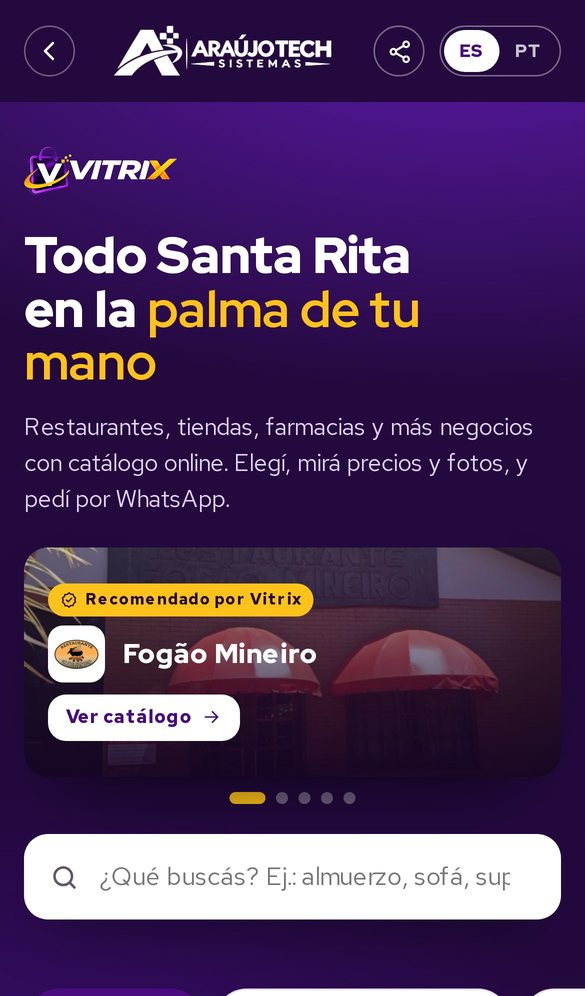
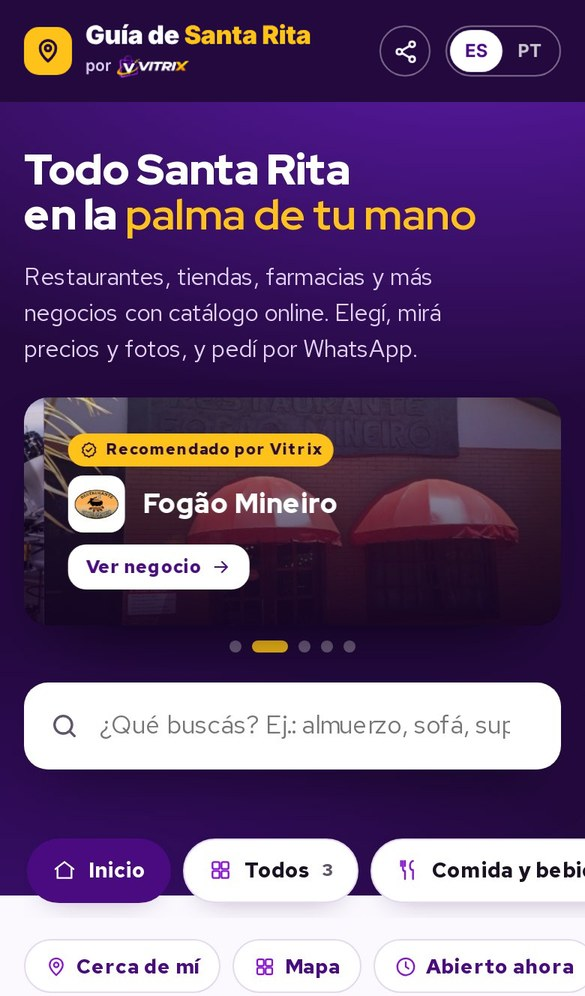
Site Araújo Tech: seção da Guía como Guía de Santa Rita (com a tecnologia do Vitrix, o que cada plano ganha, foto nova do celular); pronto para entrar com o domínio
Claude-Session: https://claude.ai/code/session_019EnWZ2w3FzxJZ5bukhMXBN

diff --git a/araujo-tech-site/index.html b/araujo-tech-site/index.html
@@ -311,7 +311,7 @@ html.anim .rv.in{opacity:1;transform:none}
 .gv-k{display:inline-block;font-size:13px;font-weight:700;letter-spacing:.1em;text-transform:uppercase;color:#FFC21A;border:1px solid rgba(255,194,26,.5);border-radius:999px;padding:6px 12px}
 .gv h2{font-family:var(--display);font-weight:900;font-size:clamp(30px,4vw,46px);line-height:1.08;margin:16px 0 12px}.gv-tx>p{color:#E3D3FA;font-size:17px;line-height:1.55;max-width:560px;margin:0}
 .gv-l{list-style:none;padding:0;margin:22px 0 0;display:grid;gap:12px}.gv-l li{display:flex;gap:12px;align-items:center;font-size:16px}.gv-l svg{width:36px;height:36px;padding:8px;box-sizing:border-box;border-radius:10px;background:rgba(255,194,26,.14);color:#FFC21A;flex:none}
-.gv-b{display:flex;gap:14px;flex-wrap:wrap;align-items:center;margin-top:28px}.gv-b1{background:#FFC21A!important;color:#24093F!important}.gv-b2{color:#fff;font-weight:700;text-decoration:none;border-bottom:1px solid rgba(255,255,255,.4);padding-bottom:2px}.gv-b2:hover{border-color:#fff}
+.gv-b{display:flex;gap:14px;flex-wrap:wrap;align-items:center;margin-top:28px}.gv-pl{margin-top:20px;font-size:15px;line-height:1.5;padding:12px 14px;border-radius:14px;background:rgba(255,255,255,.08);border:1px solid rgba(255,255,255,.16)}.gv-b1{background:#FFC21A!important;color:#24093F!important}.gv-b2{color:#fff;font-weight:700;text-decoration:none;border-bottom:1px solid rgba(255,255,255,.4);padding-bottom:2px}.gv-b2:hover{border-color:#fff}
 .gv-ph{flex:none;width:300px;border-radius:44px;background:#0C0216;padding:10px;box-shadow:0 30px 60px -20px rgba(0,0,0,.7),0 0 0 2px rgba(255,255,255,.1);transform:rotate(3deg);transition:transform .2s}.gv-ph:hover{transform:rotate(0)}.gv-ph img{display:block;width:100%;height:auto;border-radius:34px}
 @media (max-width:820px){.gv-in{flex-direction:column;align-items:stretch;gap:36px}.gv-ph{width:240px;margin:0 auto}}
 .cl-h{text-align:center;font-size:13px;font-weight:700;letter-spacing:.08em;text-transform:uppercase;color:var(--muted);margin:0 0 18px}.cl-g{text-align:center;margin:18px 0 0;font-weight:700;color:var(--purple,#7b2ff2)}.cl-g a{color:inherit;text-decoration:none}.cl-g a:hover{text-decoration:underline}
@@ -347,7 +347,7 @@ a.cl:hover{transform:translateY(-2px);box-shadow:0 10px 24px rgba(76,29,149,.12)
     </a>
     <nav class="menu" id="menu">
       <a href="#sistemas" data-t="n1">Sistemas</a>
-      <a href="guia/" data-t="n_g">Guía Vitrix</a>
+      <a href="guia/" data-t="n_g">Guía de Santa Rita</a>
       <a href="#quienes" data-t="n2">Quiénes somos</a>
       <a href="#como" data-t="n3">Cómo trabajamos</a>
       <a href="#preguntas" data-t="n4">Preguntas</a>
@@ -397,25 +397,26 @@ a.cl:hover{transform:translateY(-2px);box-shadow:0 10px 24px rgba(76,29,149,.12)
   <div class="wrap">
     <p class="cl-h" data-t="cl_h">Negocios que ya usan nuestros sistemas</p>
     <div class="cl-row"></div>
-    <p class="cl-g"><a href="guia/" data-t="cl_g">Ver todos en la Guía Vitrix</a> →</p>
+    <p class="cl-g"><a href="guia/" data-t="cl_g">Ver todos en la Guía de Santa Rita</a> →</p>
   </div>
 </section>
 
 <section class="gv" id="guia" aria-labelledby="gv-h">
   <div class="wrap gv-in">
     <div class="gv-tx">
-      <span class="gv-k" data-t="gv_k">Nuevo · Guía Vitrix</span>
+      <span class="gv-k" data-t="gv_k">Nuevo · Guía de Santa Rita</span>
       <h2 id="gv-h" data-t="gv_h">Todo Santa Rita en la palma de tu mano</h2>
-      <p data-t="gv_p">La guía de la ciudad hecha por Araújo Tech y Tu Delivery: los negocios con catálogo Vitrix y todo lo útil de Santa Rita, en un solo lugar.</p>
+      <p data-t="gv_p">La guía de la ciudad, con la tecnología de Vitrix: negocios con catálogo y pedidos por WhatsApp, qué comer ahora, quién está abierto y todo lo útil de Santa Rita, en un solo lugar.</p>
       <ul class="gv-l">
         <li><svg viewBox="0 0 24 24" fill="none" stroke="currentColor" stroke-width="2" stroke-linecap="round" stroke-linejoin="round" aria-hidden="true"><path d="M6 7h12l-1 13H7z"/><path d="M9 7a3 3 0 0 1 6 0"/></svg><span data-t="gv_1">Negocios con catálogo y pedidos por WhatsApp</span></li>
-        <li><svg viewBox="0 0 24 24" fill="none" stroke="currentColor" stroke-width="2" stroke-linecap="round" stroke-linejoin="round" aria-hidden="true"><path d="M3 12V4h8l10 10-8 8z"/><circle cx="7.5" cy="8.5" r="1.5"/></svg><span data-t="gv_2">Ofertas de hoy de los negocios</span></li>
-        <li><svg viewBox="0 0 24 24" fill="none" stroke="currentColor" stroke-width="2" stroke-linecap="round" stroke-linejoin="round" aria-hidden="true"><circle cx="12" cy="12" r="9"/><path d="M12 8v8M8 12h8"/></svg><span data-t="gv_3">Farmacia de turno y números de emergencia</span></li>
-        <li><svg viewBox="0 0 24 24" fill="none" stroke="currentColor" stroke-width="2" stroke-linecap="round" stroke-linejoin="round" aria-hidden="true"><rect x="4" y="4" width="16" height="13" rx="2"/><path d="M4 11h16M7 20v-3M17 20v-3"/></svg><span data-t="gv_4">Horarios de ómnibus, profesionales y agenda</span></li>
+        <li><svg viewBox="0 0 24 24" fill="none" stroke="currentColor" stroke-width="2" stroke-linecap="round" stroke-linejoin="round" aria-hidden="true"><path d="M3 12V4h8l10 10-8 8z"/><circle cx="7.5" cy="8.5" r="1.5"/></svg><span data-t="gv_2">Qué comer ahora y quién está abierto</span></li>
+        <li><svg viewBox="0 0 24 24" fill="none" stroke="currentColor" stroke-width="2" stroke-linecap="round" stroke-linejoin="round" aria-hidden="true"><circle cx="12" cy="12" r="9"/><path d="M12 8v8M8 12h8"/></svg><span data-t="gv_3">Farmacia de turno, ómnibus y números útiles</span></li>
+        <li><svg viewBox="0 0 24 24" fill="none" stroke="currentColor" stroke-width="2" stroke-linecap="round" stroke-linejoin="round" aria-hidden="true"><rect x="4" y="4" width="16" height="13" rx="2"/><path d="M4 11h16M7 20v-3M17 20v-3"/></svg><span data-t="gv_4">Clima, cambio y la guía para quien recién llega</span></li>
       </ul>
+      <p class="gv-pl" data-t="gv_pl">Con Vitrix tu negocio entra en la Guía con página propia. Premium suma el sello Recomendado y VIP, además, el anuncio en la portada.</p>
       <div class="gv-b"><a class="btn gv-b1" href="guia/" data-t="gv_b1">Abrir la Guía</a><a class="gv-b2" href="guia/negocios/" data-t="gv_b2">Quiero mi negocio en la Guía</a></div>
     </div>
-    <a class="gv-ph" href="guia/" aria-label="Abrir la Guía Vitrix"><img src="img/guia/guia-cel.jpg" alt="La Guía Vitrix en el celular" width="585" height="996" loading="lazy"></a>
+    <a class="gv-ph" href="guia/" aria-label="Abrir la Guía de Santa Rita"><img src="img/guia/guia-cel.jpg" alt="La Guía de Santa Rita en el celular" width="585" height="996" loading="lazy"></a>
   </div>
 </section>
 
@@ -599,7 +600,7 @@ const TESTIMONIOS = [
 const T = {
 es:{
  title:"Araújo Tech Sistemas — Sistemas a medida en Santa Rita, Paraguay",
- n_g:"Guía Vitrix",cl_g:"Ver todos en la Guía Vitrix",gv_k:"Nuevo · Guía Vitrix",gv_h:"Todo Santa Rita en la palma de tu mano",gv_p:"La guía de la ciudad hecha por Araújo Tech y Tu Delivery: los negocios con catálogo Vitrix y todo lo útil de Santa Rita, en un solo lugar.",gv_1:"Negocios con catálogo y pedidos por WhatsApp",gv_2:"Ofertas de hoy de los negocios",gv_3:"Farmacia de turno y números de emergencia",gv_4:"Horarios de ómnibus, profesionales y agenda",gv_b1:"Abrir la Guía",gv_b2:"Quiero mi negocio en la Guía",n1:"Sistemas",n2:"Quiénes somos",n3:"Cómo trabajamos",n4:"Preguntas",n5:"Pedir presupuesto",
+ n_g:"Guía de Santa Rita",cl_g:"Ver todos en la Guía de Santa Rita",gv_k:"Nuevo · Guía de Santa Rita",gv_h:"Todo Santa Rita en la palma de tu mano",gv_p:"La guía de la ciudad, con la tecnología de Vitrix: negocios con catálogo y pedidos por WhatsApp, qué comer ahora, quién está abierto y todo lo útil de Santa Rita, en un solo lugar.",gv_1:"Negocios con catálogo y pedidos por WhatsApp",gv_2:"Qué comer ahora y quién está abierto",gv_3:"Farmacia de turno, ómnibus y números útiles",gv_4:"Clima, cambio y la guía para quien recién llega",gv_b1:"Abrir la Guía",gv_b2:"Quiero mi negocio en la Guía",gv_pl:"Con Vitrix tu negocio entra en la Guía con página propia. Premium suma el sello Recomendado y VIP, además, el anuncio en la portada.",n1:"Sistemas",n2:"Quiénes somos",n3:"Cómo trabajamos",n4:"Preguntas",n5:"Pedir presupuesto",
  h1:"Sistemas a la medida de su negocio",
  h_p:"Hacemos aplicaciones y sistemas web para comercios, restaurantes, salones, empresas de delivery e iglesias. Funcionan en el celular y en la computadora, en español y en portugués.",
  h_b1:"Escribir por WhatsApp",h_b2:"Conocer Vitrix",rot_pre:"Para",sh_all:"Ver todos los sistemas",ft_job:"Trabajá con nosotros",lz_k:"Oferta exclusiva de lanzamiento",lz_h:"¡Pagá 10 meses. Disfrutá 12!",lz_p:"Los primeros 20 clientes que contraten un plan anual de Vitrix, con pago anticipado, reciben 2 meses gratis. Al completarse el cupo, la oferta finaliza.",lz_s:"La instalación se abona por separado, según el plan contratado.",lz_b:"¡Quiero mis 2 meses gratis!",lz_v:"Ver planes y precios",lz_wa:"la promoción de lanzamiento de Vitrix (pagá 10 meses, disfrutá 12).",lz_left:"Quedan {n} de {m} cupos",cl_h:"Negocios que ya usan nuestros sistemas",cl_1:"Vitrix · catálogo digital",cl_2:"Agenda de turnos",cl_3:"Caja de Entregas",wa_fab:"Escribinos",hf_tag:"Nuevo",hf_t:"Vitrix: catálogo digital con pedidos por WhatsApp",hf_p:"Para restaurantes, tiendas, farmacias y todo tipo de comercio · 33 ejemplos para probar",hf_tag:"Nuevo",hf_t:"Vitrix: catálogo digital con pedidos por WhatsApp",hf_p:"Para restaurantes, tiendas, farmacias y todo tipo de comercio · 33 ejemplos para probar",h_where:"Desde Santa Rita, Alto Paraná, para Paraguay y Brasil.",
@@ -634,7 +635,7 @@ es:{
 },
 pt:{
  title:"Araújo Tech Sistemas — Sistemas sob medida em Santa Rita, Paraguai",
- n_g:"Guia Vitrix",cl_g:"Ver todos no Guia Vitrix",gv_k:"Novo · Guia Vitrix",gv_h:"Toda Santa Rita na palma da sua mão",gv_p:"O guia da cidade feito pela Araújo Tech e pela Tu Delivery: os negócios com catálogo Vitrix e tudo o que é útil em Santa Rita, num só lugar.",gv_1:"Negócios com catálogo e pedidos pelo WhatsApp",gv_2:"Ofertas de hoje dos negócios",gv_3:"Farmácia de turno e números de emergência",gv_4:"Horários de ônibus, profissionais e agenda",gv_b1:"Abrir o Guia",gv_b2:"Quero meu negócio no Guia",n1:"Sistemas",n2:"Quem somos",n3:"Como trabalhamos",n4:"Perguntas",n5:"Pedir orçamento",
+ n_g:"Guia de Santa Rita",cl_g:"Ver todos no Guia de Santa Rita",gv_k:"Novo · Guia de Santa Rita",gv_h:"Toda Santa Rita na palma da sua mão",gv_p:"O guia da cidade, com a tecnologia do Vitrix: negócios com catálogo e pedidos pelo WhatsApp, o que comer agora, quem está aberto e tudo o que é útil em Santa Rita, num só lugar.",gv_1:"Negócios com catálogo e pedidos pelo WhatsApp",gv_2:"O que comer agora e quem está aberto",gv_3:"Farmácia de turno, ônibus e números úteis",gv_4:"Clima, câmbio e o guia para quem acabou de chegar",gv_b1:"Abrir o Guia",gv_b2:"Quero meu negócio no Guia",gv_pl:"Com o Vitrix o seu negócio entra na Guia com página própria. O Premium soma o selo Recomendado e o VIP, além disso, o anúncio na capa.",n1:"Sistemas",n2:"Quem somos",n3:"Como trabalhamos",n4:"Perguntas",n5:"Pedir orçamento",
  h1:"Sistemas sob medida para o seu negócio",
  h_p:"Fazemos aplicativos e sistemas web para comércios, restaurantes, salões, empresas de delivery e igrejas. Funcionam no celular e no computador, em português e em espanhol.",
  h_b1:"Falar no WhatsApp",h_b2:"Conhecer o Vitrix",rot_pre:"Para",sh_all:"Ver todos os sistemas",ft_job:"Trabalhe conosco",lz_k:"Oferta exclusiva de lançamento",lz_h:"Pague 10 meses. Aproveite 12!",lz_p:"Os primeiros 20 clientes que contratarem um plano anual do Vitrix, com pagamento adiantado, ganham 2 meses grátis. Quando as vagas acabarem, a oferta termina.",lz_s:"A instalação é paga à parte, conforme o plano contratado.",lz_b:"Quero meus 2 meses grátis!",lz_v:"Ver planos e preços",lz_wa:"a promoção de lançamento do Vitrix (pague 10 meses, aproveite 12).",lz_left:"Restam {n} de {m} vagas",cl_h:"Negócios que já usam nossos sistemas",cl_1:"Vitrix · catálogo digital",cl_2:"Agenda de horários",cl_3:"Caixa de Entregas",wa_fab:"Fale conosco",hf_tag:"Novo",hf_t:"Vitrix: catálogo digital com pedidos pelo WhatsApp",hf_p:"Para restaurantes, lojas, farmácias e todo tipo de comércio · 33 exemplos para testar",h_where:"De Santa Rita, Alto Paraná, para o Paraguai e o Brasil.",

diff --git a/araujo-tech-site/vitrix/index.html b/araujo-tech-site/vitrix/index.html
@@ -329,7 +329,7 @@ function calcBind(){document.querySelectorAll('[data-cm]').forEach(b=>b.addEvent
 /* botão fixo de WhatsApp: aparece depois do topo e some no final da página */
 function fabUpd(){const f=document.getElementById('fab');if(!f)return;const fin=document.querySelector('section.final');const nearEnd=fin&&fin.getBoundingClientRect().top<innerHeight;const inSec=id=>{const e=document.getElementById(id),r=e&&e.getBoundingClientRect();return !!r&&r.top<innerHeight*0.6&&r.bottom>innerHeight*0.4},inCalc=inSec('calculadora')||inSec('probar');f.classList.toggle('show',scrollY>500&&!nearEnd&&!inCalc)}
 addEventListener('scroll',fabUpd,{passive:true});addEventListener('resize',fabUpd);
-function vxClientes(){if(!window.AT_CLIENTES)return;AT_CLIENTES.load(l=>{if(!l.some(c=>c.sys==='catalogo'))return;const t=T[lang],b=document.querySelector('#clientes .wrap');if(!b)return;b.innerHTML=`<div class="head"><h2>${t.cl_h}</h2><p>${t.cl_p}</p></div><div id="vxCl"></div><p style="margin-top:20px;text-align:center"><a class="btn btn-line btn-sm" href="../guia/">${lang==='pt'?'Ver todos no Guia Vitrix':'Ver todos en la Guía Vitrix'} →</a></p>`;AT_CLIENTES.render(document.getElementById('vxCl'),lang,{sys:'catalogo'})})}
+function vxClientes(){if(!window.AT_CLIENTES)return;AT_CLIENTES.load(l=>{if(!l.some(c=>c.sys==='catalogo'))return;const t=T[lang],b=document.querySelector('#clientes .wrap');if(!b)return;b.innerHTML=`<div class="head"><h2>${t.cl_h}</h2><p>${t.cl_p}</p></div><div id="vxCl"></div><p style="margin-top:20px;text-align:center"><a class="btn btn-line btn-sm" href="../guia/">${lang==='pt'?'Ver todos no Guia de Santa Rita':'Ver todos en la Guía de Santa Rita'} →</a></p>`;AT_CLIENTES.render(document.getElementById('vxCl'),lang,{sys:'catalogo'})})}
 function render(){setTimeout(vxClientes,0);const t=T[lang];document.documentElement.lang=lang==='pt'?'pt-BR':'es';
  document.querySelectorAll('[data-t]').forEach(el=>{if(t[el.dataset.t])el.textContent=t[el.dataset.t]});
  document.querySelectorAll('[data-lang]').forEach(b=>b.classList.toggle('on',b.dataset.lang===lang));

diff --git a/tools/e2e/lib.js b/tools/e2e/lib.js
@@ -71,7 +71,7 @@ async function open(opt = {}) {
   const initJs = opt.init || null;
   if (!browser) browser = await chromium.launch({ args: ['--use-fake-ui-for-media-stream', '--use-fake-device-for-media-stream', '--disable-web-security', '--allow-running-insecure-content', '--disable-features=PrivateNetworkAccessSendPreflights,BlockInsecurePrivateNetworkRequests,PrivateNetworkAccessRespectPreflightResults,LocalNetworkAccessChecks'] });
   const W = opt.w || 390;
-  const ctx = await browser.newContext({ viewport: { width: W, height: W < 500 ? 844 : 800 }, isMobile: W < 500, hasTouch: W < 500, timezoneId: 'America/Asuncion', locale: opt.locale || 'es-PY', serviceWorkers: 'block' });
+  const ctx = await browser.newContext({ viewport: { width: W, height: W < 500 ? 844 : 800 }, deviceScaleFactor: opt.dpr || 1, isMobile: W < 500, hasTouch: W < 500, timezoneId: 'America/Asuncion', locale: opt.locale || 'es-PY', serviceWorkers: 'block' });
   await route(ctx);
   const p = await ctx.newPage(); p.errs = []; p.dialogs = []; p.autoDialog = true;
   p.on('pageerror', e => p.errs.push(String(e.message).slice(0, 200)));
